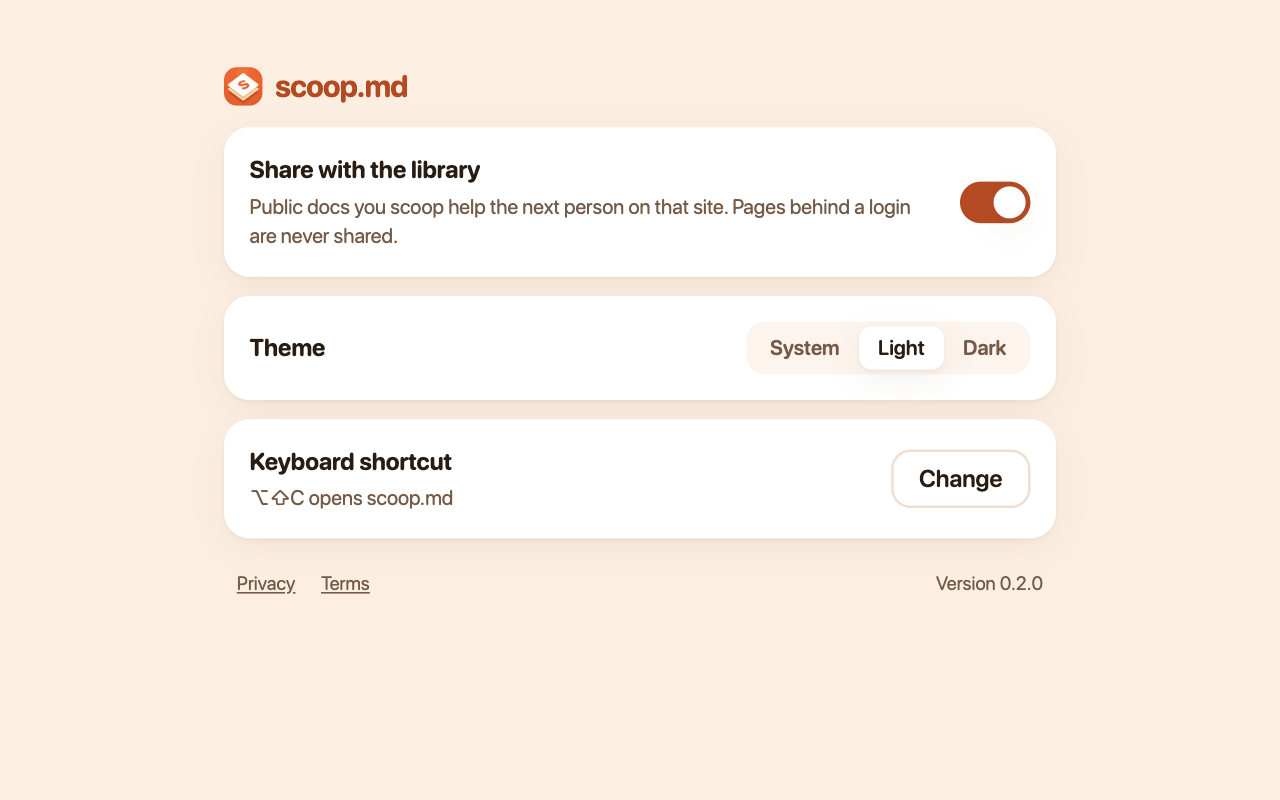
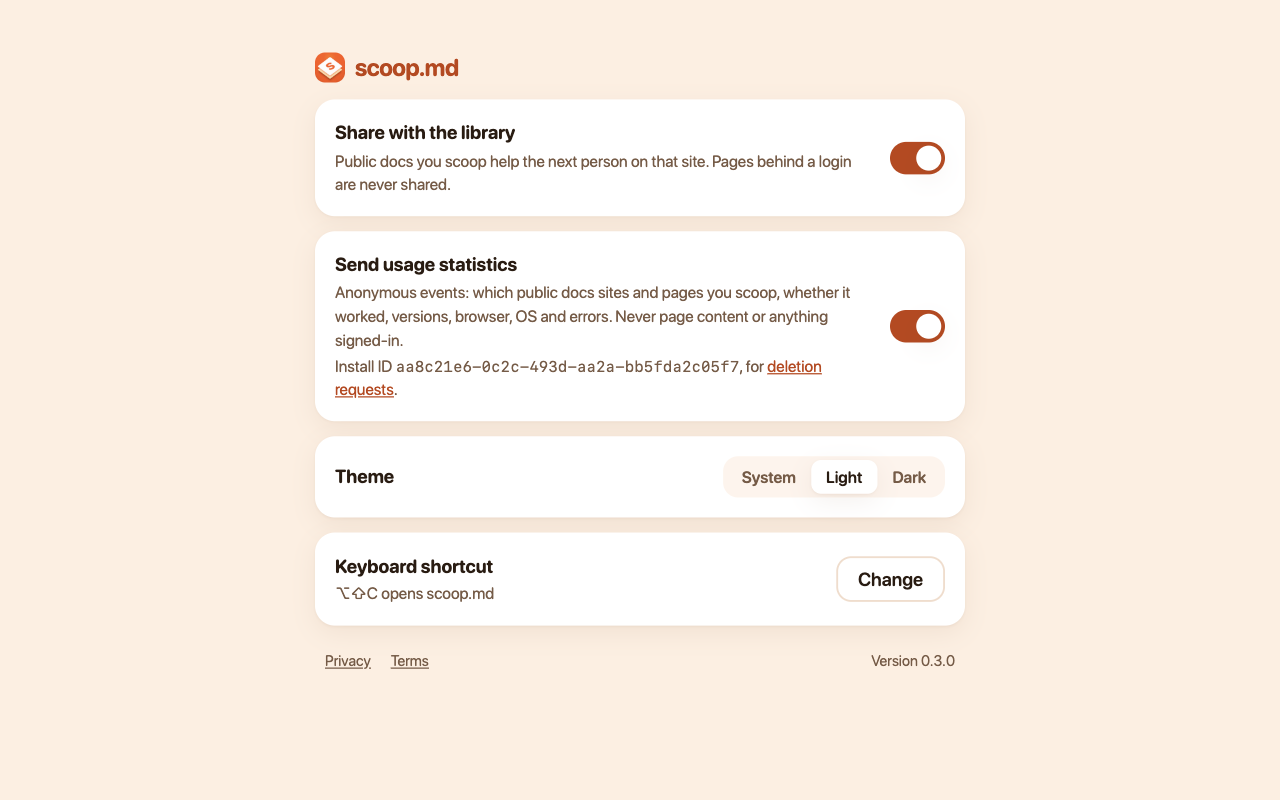
Store artwork for 0.3.0: settings with usage statistics, first-run notice
4-settings.png retaken: the usage statistics toggle and install ID.
5-first-run-notice.png is new: the first popup after install on
react.dev/learn, against the live library, with the usage statistics notice.

Changed region(s): [[0.1562, 0.0625, 0.8438, 0.7812], [0.25, 0.8125, 0.3438, 0.8438], [0.6875, 0.8125, 0.75, 0.8438]]

diff --git a/extension/STORE.md b/extension/STORE.md
@@ -89,8 +89,8 @@ In `store-assets/` (copies in `dist/store/`), taken in Chrome with the real exte
 | `1-stripe-webhooks-copied.png` | 1280×800 | docs.stripe.com/webhooks rebuilt from the page ("Rebuild from this page", since the live library already serves a Stripe skill): "Copied. Paste it into your agent.", 2 sources (the page's `.md` and `llms.txt`), "Shared with the library" (api.scoop.md) |
 | `2-stripe-library-hit.png` | 1280×800 | docs.stripe.com/payments/checkout served from the live library (api.scoop.md): "shared, worked for 2 people", vote buttons, "Rebuild from this page" |
 | `3-python-html-converted.png` | 1280×800 | docs.python.org/3/library/json.html (no Markdown published) converted from HTML, the preview scrolled to a converted code block, "Shared with the library" (api.scoop.md) |
-| `4-settings.png` | 1280×800 | Settings: sharing toggle, theme, keyboard shortcut |
+| `4-settings.png` | 1280×800 | Settings (0.3.0): sharing toggle, "Send usage statistics" toggle with the install ID, theme, keyboard shortcut, version |
+| `5-first-run-notice.png` | 1280×800 | The first popup after install, on react.dev/learn against the live library: the usage statistics notice ("Turn off" / "OK") and the sharing note above the copied result |
 | `promo-small-440x280.png` | 440×280 | Small promo tile: icon, "scoop.md", "Scoop any doc into your coding agent" on #ffeee0 |
 | `promo-marquee-1400x560.png` | 1400×560 | Marquee: the same, with the popup from screenshot 2 |
 
-Retake `4-settings.png` for 0.3.0: the Settings page now also has the "Send usage statistics" toggle and the install ID.
